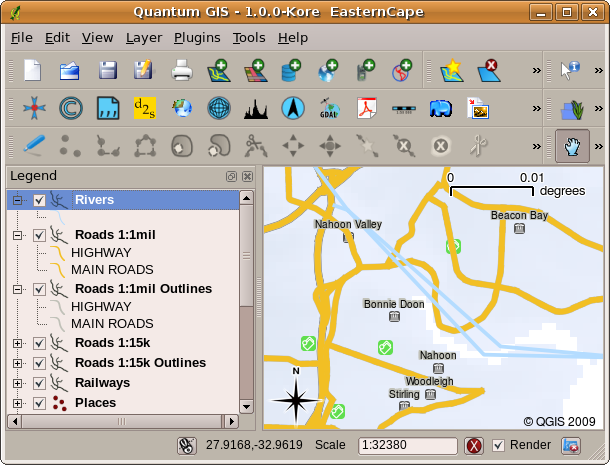
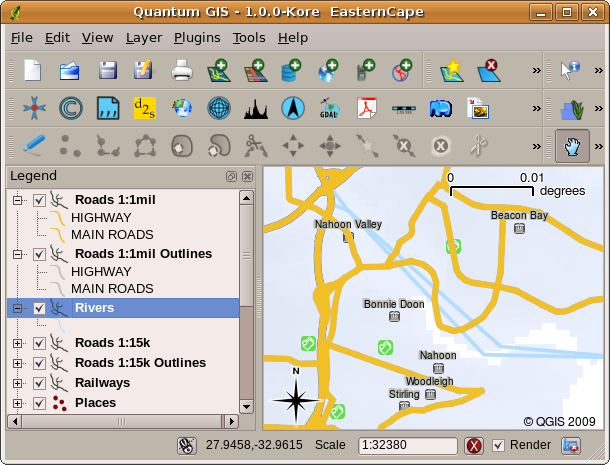
Switch order of layers overlay
assuming people prefer roads being over rivers to the opposite

diff --git a/docs/gentle_gis_introduction/introducing_gis.rst b/docs/gentle_gis_introduction/introducing_gis.rst
@@ -121,8 +121,9 @@ will have data about the street network.
 When you open a layer in the GIS Application it will appear in the **map view**.
 The map view shows a graphic representing your layer. When you add more than one
 layer to a map view, the layers are overlaid on top of each other. Look at
-figures :numref:`figure_map_view_towns`, :numref:`figure_map_view_schools`, :numref:`figure_map_view_railways` and
-:numref:`figure_map_view_rivers` to see a map view that has several layers being added to it.
+figures :numref:`figure_map_view_towns`, :numref:`figure_map_view_schools`,
+:numref:`figure_map_view_railways` and :numref:`figure_map_view_rivers`
+to see a map view that has several layers being added to it.
 An important function of the map view is to allow you to zoom in to magnify,
 zoom out to see a greater area and move around (panning) in the map.
 
@@ -171,8 +172,8 @@ by clicking on a layer in the legend, holding the mouse button down and then
 dragging the layer to a new position. In figures :numref:`figure_map_legend_before` and
 :numref:`figure_map_legend_after` the map legend is shown as the area to the left of the GIS
 Application window. By changing the layer order, the way that layers are drawn
-can be adjusted –-- in this case so that rivers are drawn over the roads instead
-of below them.
+can be adjusted –-- in this case so that rivers are drawn below the roads instead
+of over them.
 
 .. _figure_map_symbology:
 
@@ -190,7 +191,7 @@ of below them.
    :width: 30em
 
    Changing the layer order allows to adjust the way that layers are drawn. Before
-   changing the layer order, rivers are drawn underneath roads
+   changing the layer order, rivers are drawn on top of roads
 
 .. _figure_map_legend_after:
 
@@ -199,7 +200,7 @@ of below them.
    :width: 30em
 
    Changing the layer order allows to adjust the way that layers are drawn. After
-   changing the layer order, rivers are drawn on top of roads
+   changing the layer order, rivers are drawn underneath roads
 
 
 Getting a GIS Application for your own computer(s)
